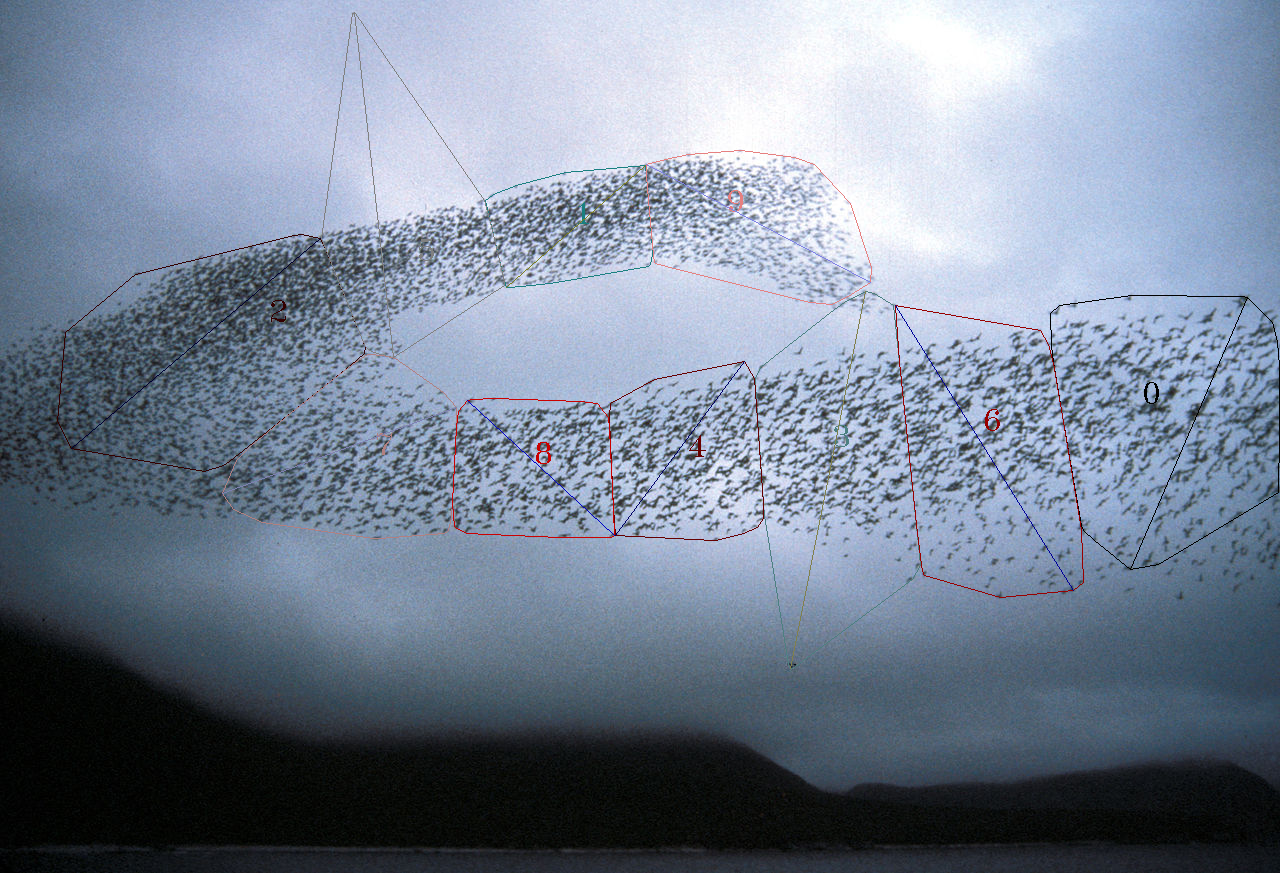
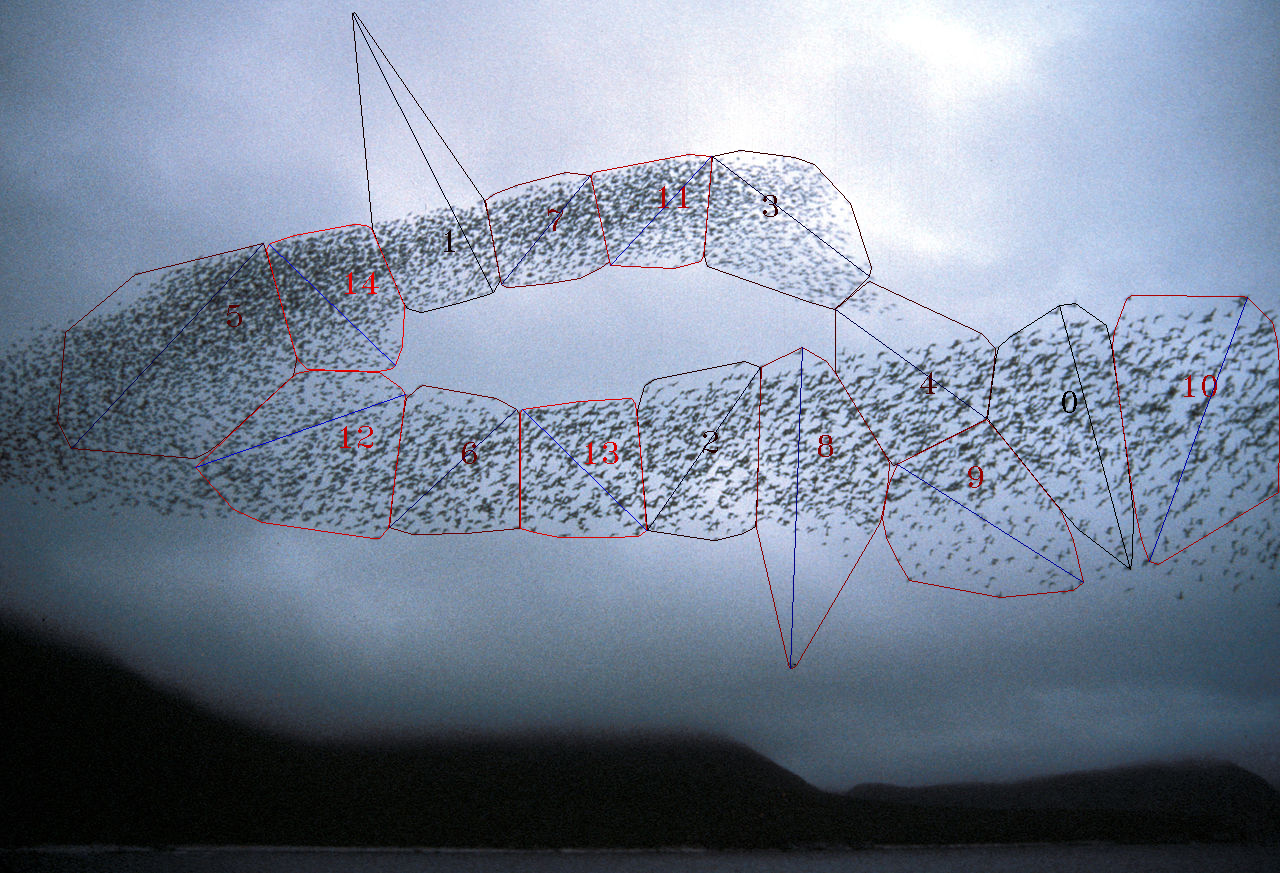
commit changes with shifft

diff --git a/image.py b/image.py
@@ -147,7 +147,7 @@ def display_clusters(image, centroids: list,image_name,algorithem):
     # the window showing output image with corners
     # cv2.imshow('Image with Corners', image)
     type_of_image = "cluster"
-    path = fr".\clustering\results\{image_name}_{algorithem}_{type_of_image}.png"
+    path = fr".\results\{image_name}_{algorithem}_{type_of_image}.png"
     cv2.imwrite(path,image)
     # cv2.waitKey(0)
     # cv2.destroyAllWindows()
@@ -161,7 +161,8 @@ def cluster_image_with_lib(full_path: str, k_max: int, k_iteration_index_quant: 
 
     image = tup[0]
     list_samples: list = tup[1]
-
+    optimal_k_shifting = []
+    list_index_of_k = []
     if isinstance(list_samples, list) and len(list_samples) > 0:
         list0: list = list(map(lambda sample: [sample.x, sample.y], list_samples))
 
@@ -213,8 +214,9 @@ def cluster_image_with_lib(full_path: str, k_max: int, k_iteration_index_quant: 
 
 
 
-                calculate_k_with_graph_rotation(x_start, y_start, x_end, y_end, arr[:index_of_k], index_of_k)
-
+                optimal_k_after_rotation = calculate_k_with_graph_rotation(x_start, y_start, x_end, y_end, arr[:index_of_k], index_of_k)
+                optimal_k_shifting.append(optimal_k_after_rotation)
+                list_index_of_k.append(k+j)
 
                 if x_end > x_start:
                     # This is the slope of the line between the first and last points
@@ -265,6 +267,8 @@ def cluster_image_with_lib(full_path: str, k_max: int, k_iteration_index_quant: 
                     ratio: float = optim_index_of_k / index_of_k
 
                     print(f'optim index of k: {optim_index_of_k}, wcss: {y_end}, ratio: {ratio}')
+
+
 
                     max_distances.append((x_end, max_squared_distance, optim_k))
 
@@ -321,15 +325,27 @@ def cluster_image_with_lib(full_path: str, k_max: int, k_iteration_index_quant: 
 
         type_of_image = "elbow_method"
         image_kind = f"{image_name}_{algorithem}_{type_of_image}"
-        base_path = "./clustering/results/"
+        base_path = "./results/"
         # path = ".\\results\\" + image_name + "_" + algorithem + "_" + type_of_image + ".png"
         plt.savefig(base_path + image_kind + ".png")
         plt.clf()
         # plt.show()
 
+        plot_shifting_k(optimal_k_shifting, list_index_of_k, base_path + image_kind + "_shifting")
+
+
         display_clusters(image, centroids, image_name=image_name, algorithem = algorithem )
         result = {'Algorithem':'kmeans by sklearn','Image':os.path.splitext(os.path.basename(full_path))[0],'wcss':wcss,'Optimal k':optim_k,'Initial Centroids':'kmeans++'}
         return result
+
+
+def plot_shifting_k(optimal_ks, range_list,saving_path):
+    plt.plot(list(range_list), list(optimal_ks))
+    plt.title('K Shifting using Elbow Method')
+    plt.xlabel('Range')
+    plt.ylabel('Optimal K')
+    plt.savefig(saving_path + ".png")
+    plt.clf()
 
 def plot_rotated_graph(points_rotated):
         plt.plot(list(map(lambda tup: tup[0], points_rotated)), list(map(lambda tup: tup[1], points_rotated)))
@@ -345,6 +361,7 @@ def calculate_k_with_graph_rotation(x1, y1, x2, y2, arr_k_wcss, max_num_of_clust
     min_tuple = None
     min_tuple = min(points_rotated, key=lambda x: x[1])
     print("the k after the rotation is: ", min_tuple[2])
+    return min_tuple[2]
     # plot_rotated_graph(points_rotated)
 
 

diff --git a/main.py b/main.py
@@ -4,21 +4,21 @@ import glob
 import csv
 
 # Set the directory where your files are stored
-image_directory_path = '.\clustering\images'
+image_directory_path = '.\images'
 
 # Use glob to find all files in the directory
 files = glob.glob(os.path.join(image_directory_path, '*.jpg'))
 print(files)
 results = []
 # Define the path and filename for your CSV file
-filename = r'''.\clustering\results.csv'''
+filename = r'''.\results.csv'''
 
 for file in files:
     print(f'{file}')
     image_name = os.path.splitext(os.path.basename(file))[0]
-    results.append(cluster_image_with_lib(f'{file}',k_iteration_index_quant=10, k_max=50, display_optimal_k=True))
-    results.append(cluster_image_implemented(f'{file}', 3,random_mode=False))
-    results.append(cluster_image_implemented(f'{file}', 3,random_mode=True))
+    results.append(cluster_image_with_lib(f'{file}',k_iteration_index_quant=5, k_max=100, display_optimal_k=True))
+    # results.append(cluster_image_implemented(f'{file}', 3,random_mode=False))
+    # results.append(cluster_image_implemented(f'{file}', 3,random_mode=True))
     
 # Open the CSV file for writing
 with open(filename, 'a', newline='') as csvfile:
